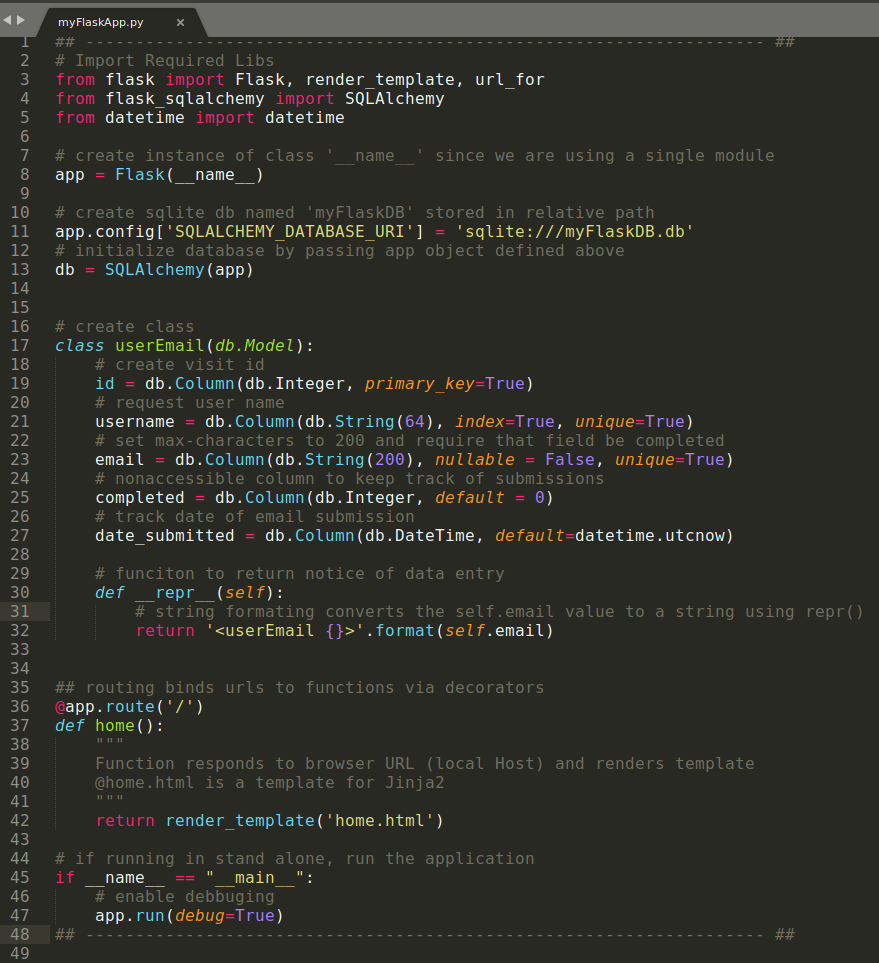
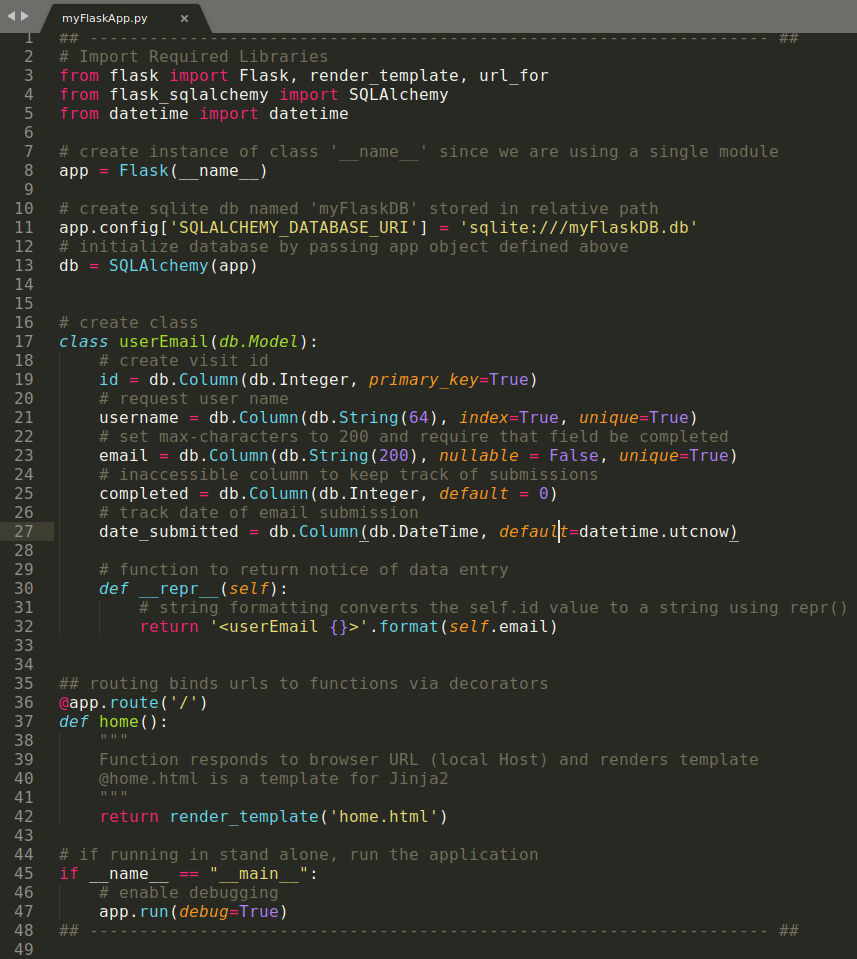
spell checked content and disabled checkpoints push

diff --git a/assets/flaskTestApp/myFlaskApp.py b/assets/flaskTestApp/myFlaskApp.py
@@ -21,14 +21,14 @@ class userEmail(db.Model):
 	username = db.Column(db.String(64), index=True, unique=True)
 	# set max-characters to 200 and require that field be completed
 	email = db.Column(db.String(200), nullable = False, unique=True)
-	# nonaccessible column to keep track of submissions
+	# inaccessible column to keep track of submissions
 	completed = db.Column(db.Integer, default = 0)
 	# track date of email submission
 	date_submitted = db.Column(db.DateTime, default=datetime.utcnow)
 
-	# funciton to return notice of data entry
+	# function to return notice of data entry
 	def __repr__(self):
-		# string formating converts the self.email value to a string using repr()
+		# string formatting converts the self.id value to a string using repr()
 		return '<userEmail {}>'.format(self.email)
 
 
@@ -43,7 +43,8 @@ def home():
 
 # if running in stand alone, run the application
 if __name__ == "__main__":
-	# enable debbuging
+	# enable debugging
 	app.run(debug=True)
 ## -------------------------------------------------------------------- ##
+
 
